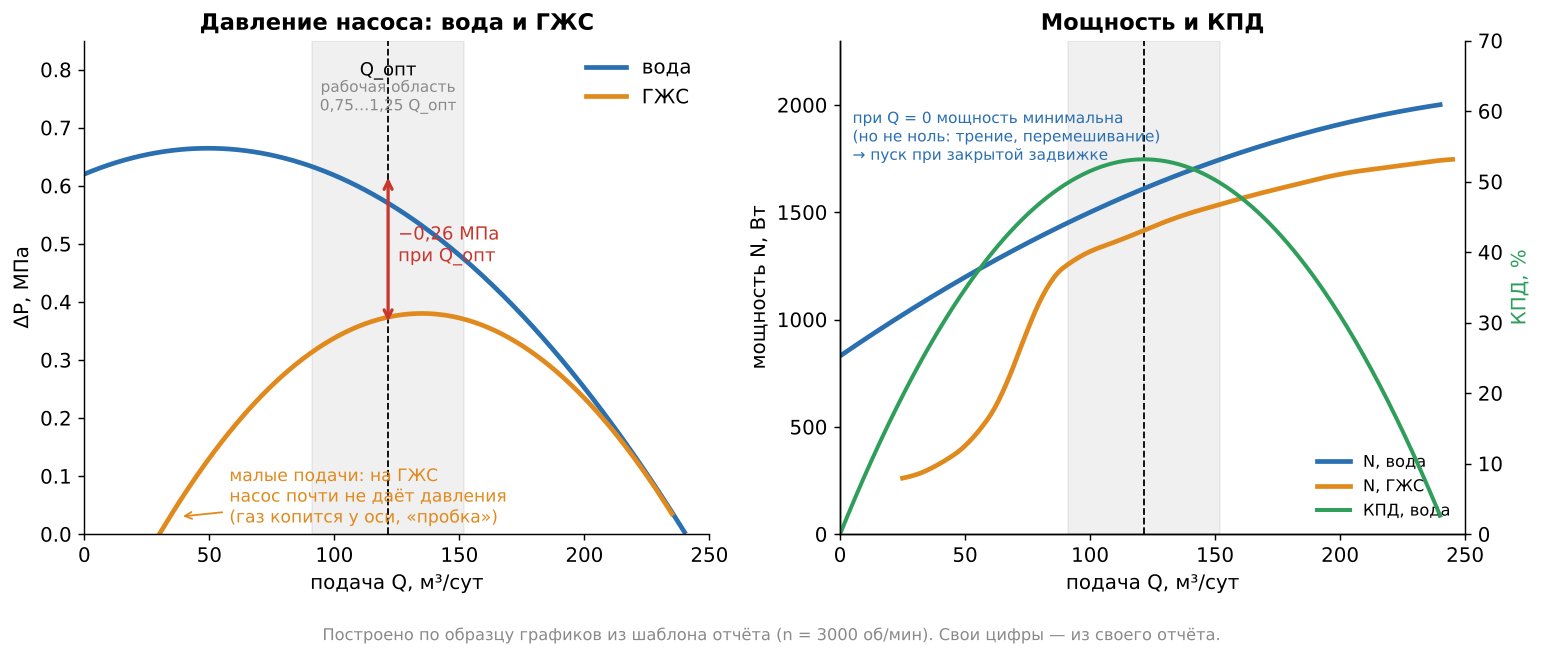
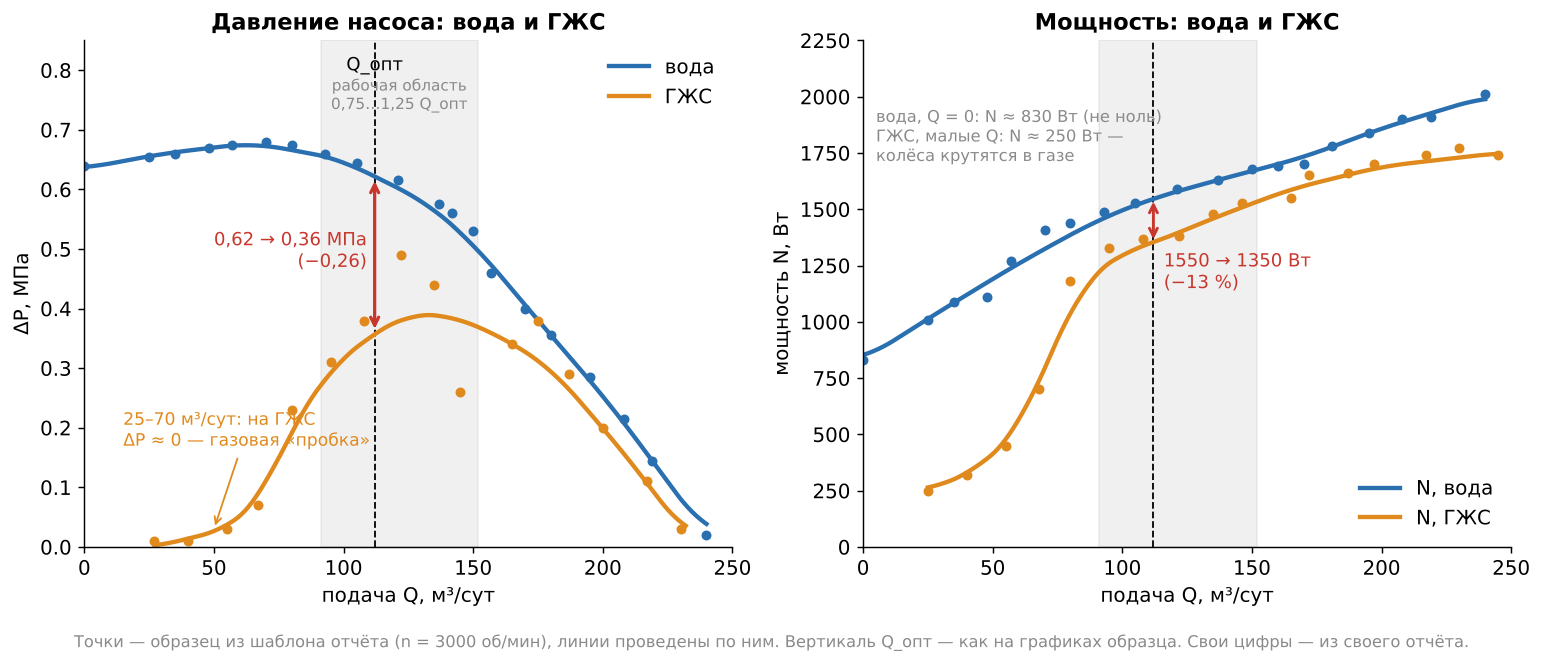
ЛР2: дополнение к подготовке к защите (стенд, обработка, графики, устройство ЭЛН, уточняющие вопросы по кавитации)
Вопросы собраны тремя агентами-«экзаменаторами» по лекциям и методичкам, проверены отдельным рецензентом.

Claude-Session: https://claude.ai/code/session_012JeHmcucBuxbL5MpypKkah

diff --git a/конспекты/ЛР2/ЛР2-Подготовка_дополнение.md b/конспекты/ЛР2/ЛР2-Подготовка_дополнение.md
@@ -1,8 +1,8 @@
 # ЛР2 «Перекачка насосом ГЖС» — дополнение к подготовке
 
-**Как читать.** Это вторая часть. Сначала основной файл (кавитация, запас, борьба, газ — 6 страниц), потом этот. Здесь — то, о чём преподаватель спрашивает **после** основного ответа: стенд, обработка, графики, устройство насоса и «почему» по кавитации. Повторов основного файла нет.
+**Как читать.** Это вторая часть. Сначала — основной файл (разделы ①–③ и «Связь с лабой»), потом этот. Здесь — то, о чём преподаватель спрашивает **после** основного ответа: стенд, обработка, графики, устройство насоса и «почему» по кавитации.
 **★** — спросят почти наверняка. *(общ.)* — в лекциях и методичках этого нет, ответ из общих знаний.
-Числа в примерах — из образца шаблона отчёта (Q_опт = 121,5 м³/сут, ΔP = 0,62 МПа, N = 1550 Вт, n = 3000 об/мин). **Свои цифры берите из своего отчёта.**
+Числа в примерах — из образца шаблона отчёта (n = 3000 об/мин). **Свои цифры берите из своего отчёта.**
 
 ---
 
@@ -11,9 +11,8 @@
 **★ Зачем каждый элемент на схеме?**
 
 - **Бак** замыкает контур; газ из смеси в нём всплывает и уходит *(общ.)*.
-- **Подпорный насос** создаёт и держит постоянное давление на входе.
 - **Расходомер** — подача воды.
-- **Манометры на входе и выходе** — для перепада ΔP.
+- **Манометры на входе и выходе** — перепад ΔP.
 - **Задвижка на выходе** задаёт режим по подаче.
 - **Станция управления** — пуск, частота вращения, потребляемая мощность.
 - **Газовая линия:** компрессор → ресивер (гасит пульсации) → дроссель (задаёт расход газа) → газовый счётчик → обратный клапан (не пускает воду к компрессору) → всас насоса.
@@ -22,17 +21,17 @@
 
 **★ Порядок работы.**
 
-- **Вода.** Залить насос, удалить воздух из импульсных шлангов, пустить при **закрытой** задвижке. Открывать задвижку ступенями от Q = 0 до полного открытия. В каждой точке, после того как режим установится, записать Q, P_вх, P_вых, N, n.
+- **Вода.** Залить насос, удалить воздух из импульсных шлангов, пустить при **закрытой** задвижке. Открывать задвижку ступенями от Q = 0 до полного открытия. В каждой точке, когда режим установился, записать Q, P_вх, P_вых, N, n.
 - **ГЖС.** Задвижкой выставить подачу (шаг 0,1·Q_опт), дросселем подать газ. Частотой подпорного насоса вернуть P_вх к заданному значению, записать показания. Всё повторить для второго давления на входе.
 - **Остановка:** сначала закрыть задвижку, потом выключить двигатель.
 
-**★ Почему P_вх приходится всё время подправлять?** Когда открываем задвижку, растёт подача, растут потери во всасывающей линии, и давление на входе падает. Газ тоже меняет сопротивление подвода. А постоянное P_вх нужно, чтобы газ во всех точках был сжат одинаково и точки можно было сравнивать.
+**★ Как держали давление на входе постоянным на ГЖС и почему оно «уходит»?** Когда открываем задвижку, растёт подача, растут потери во всасывающей линии, и давление на входе падает. Газ тоже меняет сопротивление подвода. Поэтому после каждого шага давление на входе возвращают частотой подпорного насоса. Постоянным его держат, чтобы газ во всех точках был сжат одинаково и точки можно было сравнивать.
 
-**Почему нельзя долго работать на закрытой задвижке (в методичке — не дольше 5 мин)?** Насос ничего не подаёт, а мощность (в образце около 830 Вт) вся уходит в тепло в малом объёме воды. Вода греется, страдают опоры и уплотнения, растёт давление пара — недалеко до кавитации.
+**Почему нельзя долго работать на закрытой задвижке (в методичке — не дольше 5 мин)?** Насос ничего не подаёт, а вся мощность (в образце около 830 Вт) уходит в тепло в малом объёме воды. Греются опоры и уплотнения, при долгой работе вода может закипеть.
 
-**Обороты не ровно 3000 — что делать?** У асинхронного двигателя есть скольжение: реально около 2900 об/мин, и под нагрузкой они немного падают. Точно — привести все точки к одной частоте по законам подобия (Q ~ n, ΔP ~ n², N ~ n³). Методичка этого требует.
+**Обороты не ровно 3000 — что делать?** У асинхронного двигателя есть скольжение: реально около 2900 об/мин, и под нагрузкой они немного падают. Для точности все точки приводят к одной частоте по законам подобия (Q ~ n, ΔP ~ n², N ~ n³). Методичка требует приводить к расчётной частоте, если испытывали на пониженной.
 
-**Какую смесь использовали и что она моделирует?** «Вода – воздух» — модель сильно обводнённой нефти (внешняя фаза — пластовая вода). Смесь «вода – ПАВ – газ» моделирует пенистую маловязкую нефть. В пене газ держится мелкими пузырями и вредит меньше.
+**Что моделирует смесь?** «Вода – газ» — модель сильно обводнённой нефти (внешняя фаза — пластовая вода). «Вода – ПАВ – газ» — модель пенистой маловязкой нефти. В пене газ держится мелкими пузырями и вредит меньше.
 
 **Техника безопасности** (если спросят). Перед работой проверить аварийную кнопку, заземление, крепление ступеней и рамы, утечки, свободное вращение вала, положение задвижек. Нельзя работать при утечках, оставлять стенд без оператора, налаживать при включённом двигателе.
 
@@ -46,9 +45,9 @@
 
 **Почему полезная мощность — это ΔP·Q, а не ρgQH?** Это одно и то же: давление p = ρgH. Удобнее брать ΔP, потому что его меряем напрямую.
 
-**★ Зачем в ΔP слагаемое ρgz?** Насос вертикальный, датчики стоят на разной высоте. Чтобы получить полную энергию, которую дал насос, добавляем гидростатику между ними. Порядок величины: при z = 1 м ρgz ≈ 0,01 МПа, то есть 1–2 % от ΔP. В формулу его подставлять в МПа.
+**★ Зачем в ΔP слагаемое ρgz?** Насос вертикальный, датчики стоят на разной высоте. Чтобы получить полную энергию, которую дал насос, добавляем гидростатику между ними. При z = 1 м ρgz ≈ 9800 Па ≈ 0,01 МПа, то есть 1–2 % от ΔP. Получается в Па — разделить на 10⁶, чтобы сложить с давлениями в МПа.
 
-**Что на самом деле стоит в знаменателе КПД?** N_потр − N_хх. N_хх снимали на сборке **без колёс**, это потери в подшипниках и сальниках. Потери самого двигателя остались внутри, поэтому наш КПД ближе к КПД агрегата и немного занижен *(общ.)*.
+**Какой КПД мы считаем — насоса или агрегата?** В знаменателе N_потр − N_хх. Если N — электрическая мощность со станции, в ней остаются потери двигателя, растущие с нагрузкой, и КПД получается чуть ниже, чем у самих ступеней *(общ.)*.
 
 **★ Пересчёт газа — на числах.** Счётчик показал 1 м³/ч = 24 м³/сут. Давление на входе 0,1 МПа избыточное → 0,2 МПа абсолютное.
 
@@ -56,15 +55,15 @@
 - При Q_в = 120 м³/сут объём смеси = 132 м³/сут.
 - β по шаблону = 12/120 = **10 %**; по методичке = 12/132 = **9,1 %**.
 
-Ловушка: если подставить избыточное давление вместо абсолютного, газ получится вдвое больше.
+Ловушка: если подставить избыточное давление вместо абсолютного, газ завысится — при 0,1 МПа изб вдвое.
 
 **★ Почему β в шаблоне и в методичке разные?** В шаблоне — отношение газа к жидкости, в методичке — доля газа во всей смеси. При малом газе это почти одно и то же, при большом — нет: предел ТУ «25 % по методичке» — это **33 %** по формуле шаблона. В отчёте указать, какое β считали.
 
 **Кривая ГЖС снята при постоянном расходе газа?** Нет: с каждым шагом прибавляли и воду, и газ, чтобы держать β примерно постоянным. Поэтому в отчёте — **среднее** β.
 
-**★ Как нашли Q_опт? Почему у параболы КПД нет свободного члена?** Аппроксимировали КПД параболой y = −0,0036Q² + 0,8749Q, приравняли производную к нулю: Q_опт = 0,8749 / 0,0072 = 121,5 м³/сут. Свободного члена нет, потому что при Q = 0 полезной мощности нет и КПД равен нулю. Второй ноль параболы — 243 м³/сут, там же, где ΔP → 0. Значит, модель осмысленная.
+**★ Как нашли Q_опт? Почему у параболы КПД нет свободного члена?** Аппроксимировали КПД параболой y = −0,0036Q² + 0,8749Q и приравняли производную к нулю: Q_опт = 0,8749 / 0,0072 = 121,5 м³/сут. Свободного члена нет, потому что при Q = 0 полезной мощности нет и КПД равен нулю. Второй ноль параболы — 243 м³/сут, там же, где ΔP → 0. Модель осмысленная.
 
-**★ Почему рабочая область именно 0,75…1,25 Q_опт?** Это зона, где КПД не более чем на ~7 % ниже максимума (по лекциям — так задают поле рабочих параметров). Для параболы на краях зоны КПД ≈ 94 % от максимума. Левее растут осевая сила, циркуляция, удар на входе, правее — скорости и потери. Вне зоны насос изнашивается быстрее.
+**★ Почему рабочая область 0,75…1,25 Q_опт?** Границы взяты из шаблона, а по смыслу это поле рабочих параметров: по лекциям в нём КПД не более чем на 7 % ниже максимума. Для нашей параболы на краях зоны КПД ≈ 94 % от максимума — укладывается. Левее растут осевая сила, циркуляция, удар потока на входе, правее — скорости и потери. Вне зоны насос изнашивается быстрее.
 
 ---
 
@@ -74,21 +73,23 @@
 
 **★ Почему ΔP падает с ростом подачи?** По уравнению Эйлера у лопастей, загнутых назад, теоретический напор линейно уменьшается с подачей. Из этой прямой ещё вычитаются потери: трение растёт примерно как Q², удар на входе растёт при уходе от расчётной подачи. Поэтому реальная кривая идёт ниже и падает всё круче.
 
-**Почему у воды при Q = 0 давление (0,62) меньше максимума (0,68)?** Это характеристика «с горбом», типична для колёс с большим углом лопасти на выходе. Левее максимума одному давлению соответствуют две подачи, и работа может быть неустойчивой. Но эта ветка лежит вне рабочей зоны.
+**Почему у воды при Q = 0 давление (0,64) меньше максимума (0,68)?** Это характеристика «с горбом», типична для колёс с большим углом лопасти на выходе. Левее максимума одному давлению соответствуют две подачи, и работа может быть неустойчивой. Но эта ветка лежит вне рабочей зоны.
 
-**★ Почему при Q = 0 мощность не ноль (≈ 830 Вт), а дальше растёт?** При закрытой задвижке энергия уходит на трение дисков колёс о воду, на вихри и утечки в зазорах, а у ЭЛН ещё на трение колёс об опорные шайбы (осевая сила при Q = 0 наибольшая). С ростом подачи добавляется полезная мощность. Поэтому мощность минимальна при Q = 0, и центробежный насос пускают на закрытую задвижку. У осевых насосов наоборот: максимум мощности при Q = 0, их пускают при открытой.
+**★ Почему при Q = 0 мощность не ноль (≈ 830 Вт), а дальше растёт?** При закрытой задвижке энергия уходит на трение дисков колёс о воду, на вихри и утечки в зазорах, у ЭЛН — ещё и на трение колёс об опорные шайбы. С ростом подачи добавляется полезная мощность. Значит, мощность минимальна при Q = 0, и центробежный насос пускают на закрытую задвижку. У осевых насосов наоборот: мощность максимальна при Q = 0, их пускают при открытой.
 
 **★ Разберите график вода/ГЖС по зонам** (образец).
 
 - **25–70 м³/сут:** ΔP ≈ 0 — срыв: газ скопился у оси колёс в «пробку», колёса крутятся в газе.
-- **80–140:** ΔP сильно ниже воды (при Q_опт 0,36 против 0,62, −42 %) — газовая кавитация.
+- **80–150:** ΔP сильно ниже воды (при Q_опт 0,36 против 0,62, −42 %) — газовая кавитация.
 - **От 170:** кривые почти сходятся — мелкие пузыри уносятся потоком (эмульсия), разница почти только из-за меньшей плотности.
 
 **★ Почему на малых подачах газ вредит сильнее, а на больших — меньше?** На малых скорость жидкости мала: центробежная сила успевает отделить лёгкий газ от тяжёлой воды и согнать его к оси, ко входу колеса. Там пузыри сливаются в каверну. На больших подачах поток быстрый, пузыри дробятся и выносятся раньше, чем успевают собраться *(механизм на больших Q — общ.)*.
 
-**Почему максимум кривой ГЖС сдвинут вправо (≈130 против 60–70 у воды)?** Две причины. Первая — на малых подачах газ вредит сильнее всего. Вторая — через ступень на самом деле идёт не только вода, но вода + газ, то есть по объёму насос работает правее, чем показывает ось подачи жидкости.
+**Почему у ГЖС максимум давления при ≈130, а у воды при 60–70?** Правая часть не поднялась — обрушилась левая. На малых подачах газ собирается в пробку, давление там почти нулевое, и максимум остался там, где газ уже выносится потоком.
 
-**★ Почему давление упало на 42 %, а мощность только на 13 %?** Если бы дело было только в плотности, оба упали бы одинаково (и давление, и мощность ~ плотности). Давление упало гораздо сильнее, значит, каверны ломают передачу энергии, и часть мощности уходит в потери. Поэтому КПД на ГЖС падает: по жидкости при Q_опт 0,36·10⁶ · 0,00141 / 1350 ≈ **37 %** против 56 % на воде.
+**Почему на ГЖС при малых подачах мощность (≈250 Вт) даже меньше, чем на воде при закрытой задвижке (830 Вт)?** Колёса крутятся в газовой пробке. Газ почти ничего не весит, трение и перемешивание в нём почти ничего не стоят, жидкость через насос почти не идёт.
+
+**★ Почему давление упало на 42 %, а мощность только на 13 %?** Если бы дело было только в плотности, оба упали бы одинаково (и давление, и мощность пропорциональны плотности). Давление упало гораздо сильнее — значит, каверны ломают передачу энергии, и часть мощности уходит в потери. Поэтому КПД на ГЖС падает: по жидкости при Q_опт 0,36·10⁶ · 0,00141 / 1350 ≈ **37 %** против 56 % на воде.
 
 **Почему точки ГЖС с большим разбросом?** Двухфазный поток нестационарен: пузыри сливаются и рвутся, давление и мощность пульсируют, компрессор подаёт газ неравномерно. Поэтому замер делают только после установления режима.
 
@@ -97,13 +98,15 @@
 - P_вх = 0,1 МПа изб → 12 м³/сут на входе, β = 10 %;
 - P_вх = 0,3 МПа изб → 24·0,1/0,4 = **6 м³/сут**, β = 5 %.
 
-Газ сжат вдвое сильнее, его объёмная доля вдвое меньше. Кривая ГЖС ближе к воде, срыв наступает позже. В скважине тот же эффект даёт более глубокое погружение насоса.
+Газ сжат вдвое сильнее, его объёмная доля вдвое меньше. Кривая ГЖС ближе к воде, срыв сдвигается к меньшим подачам и большему газосодержанию.
+
+**★ В каких режимах работа на ГЖС допустима?** Бескавитационный режим при малом газосодержании — допустим. Режим газовой кавитации — нет: падают давление и подача, а в скважине — добыча, растут преждевременные отказы установки.
 
 ![](../../рисунки/ЛР2-Подготовка/д05_давление_по_ступеням.jpg)
 
-**★ Как меняется давление по ступеням на ГЖС?** При малом газе давление растёт почти линейно с первой ступени. При большом газе первые 20–40 ступеней дают плато, а иногда давление в них даже **падает ниже входного**. Затем газ сжимается и частично растворяется, его доля падает, и ступени «оживают». Чем больше газа, тем больше «мёртвых» ступеней на входе.
+**★ Как меняется давление по ступеням на ГЖС?** Рисунок: 76 ступеней, давление на входе 0,6 МПа. При β ≈ 26 % (красная) давление растёт почти линейно с первой ступени. При β ≈ 37 % (синяя) первые ~20 ступеней дают плато, а местами давление в них даже **ниже входного**. Дальше газ сжимается и частично растворяется, его доля падает, и ступени начинают работать. Чем больше газа, тем больше «мёртвых» ступеней на входе. *(Оранжевая кривая отличается и подачей, поэтому чистое сравнение — красная и синяя.)*
 
-**Как давление может падать в ступенях насоса?** Ступени в газовой кавитации энергии почти не передают, а гидравлические потери в них остаются. Они работают как сопротивление, и поток через них проталкивает давление на входе (подпор).
+**Как давление может падать в ступенях насоса?** Ступени в газовой кавитации энергии почти не передают, а гидравлические потери в них остаются. Поток проталкивается через них за счёт давления на входе (подпора), и часть этого давления теряется.
 
 **Почему наша короткая секция чувствует газ сильнее, чем насос в скважине?** Она по сути моделирует только **нижние** ступени настоящего насоса — самую тяжёлую зону. В длинном насосе верхние ступени работают на сжатом газе, и в среднем влияние мягче *(общ.)*.
 
@@ -114,28 +117,25 @@
 ![](../../рисунки/ЛР2-Подготовка/д01_ступень_ЭЛН.jpg)
 *Ступень ЭЛН: 1 — направляющий аппарат, 3 — рабочее колесо, 5 и 7 — нижняя и верхняя опорные шайбы, 8 — вал.*
 
-**★ Как работает ступень? Зачем направляющий аппарат?** Колесо закручивает жидкость, центробежные силы гонят её к периферии, на выходе растут давление и скорость. У направляющего аппарата две задачи:
-
-1. как диффузор перевести скорость в давление;
-2. снять закрутку и подвести поток к следующему колесу.
+**★ Как работает ступень? Зачем направляющий аппарат?** Колесо закручивает жидкость, центробежные силы гонят её к периферии, на выходе растут давление и скорость. Направляющий аппарат:
+1. как диффузор переводит скорость в давление;
+2. снимает закрутку и подводит поток к следующему колесу.
 
 Без него следующее колесо получило бы закрученный поток и дало бы меньший напор.
 
-**★ Что такое плавающее колесо и куда девается осевая сила?** Осевая сила возникает из-за разницы давлений: сзади на колесо давит давление выхода, спереди — меньшее давление входа. Плавающее колесо закреплено на валу только шпонкой от проворота, вдоль вала оно свободно. Каждое колесо передаёт свою силу через опорную шайбу на свой направляющий аппарат, то есть на корпус. Силы сотен ступеней не складываются на валу. Минус — трение в шайбах снижает КПД, шайбы изнашиваются.
+**★ Что такое плавающее колесо и куда девается осевая сила?** Осевая сила возникает из-за разницы давлений: сзади на колесо давит давление выхода, спереди — меньшее давление входа. Плавающее колесо закреплено на валу только шпонкой от проворота, вдоль вала оно свободно. Каждое колесо опирается через шайбу на бурт направляющего аппарата предыдущей ступени, то есть отдаёт силу на корпус. Силы сотен ступеней не складываются на валу. Минус — трение в шайбах снижает КПД, шайбы изнашиваются.
 
-**При какой подаче осевая сила наибольшая?** При Q = 0: давление выхода максимальное. С ростом подачи сила падает, на больших подачах может сменить знак (колесо поджимается к верхней шайбе) *(смена знака — общ.)*. Слева от рабочей зоны колёса сильно трутся о нижние шайбы — ещё одна причина держать насос в рабочей зоне.
+**При какой подаче осевая сила наибольшая?** На холостом ходу, при Q = 0: давление за колесом высокое, а встречная сила от входящего потока почти нулевая. С ростом подачи сила уменьшается, на больших подачах может сменить знак — колесо поджимается к верхней шайбе *(смена знака — общ.)*. Слева от рабочей зоны колёса сильно трутся о нижние шайбы — ещё одна причина держать насос в рабочей зоне.
 
 **Почему в ЭЛН нет разгрузочного диска или встречных колёс, как в обычных многоступенчатых насосах?** Для встречной схемы нужны переводные каналы, а они не помещаются в корпус диаметром 70–120 мм. Одна гидропята на сотни ступеней принимала бы огромную суммарную силу. Плавающие колёса разгружают каждую ступень отдельно.
 
-**★ Почему КПД ЭЛН всего ~50–56 %, а у больших насосов 80–90 %?** Общий КПД — это произведение трёх: гидравлического (трение и вихри в каналах), объёмного (утечки через зазоры с выхода на вход) и механического (подшипники, трение дисков, у ЭЛН ещё и опорные шайбы). У маленькой ступени каналы узкие, относительные зазоры и шероховатость больше. Все три КПД ниже.
+**★ Почему КПД ЭЛН всего ~50–56 %, а у больших насосов 80–90 %?** Общий КПД — произведение трёх: гидравлического (трение и вихри в каналах), объёмного (утечки через зазоры с выхода на вход) и механического (подшипники, трение дисков, у ЭЛН — ещё опорные шайбы). У маленькой ступени каналы узкие, относительные зазоры и шероховатость больше — все три КПД ниже.
 
 **★ Насос качает нефть плотностью 850 — что изменится: напор или давление?** Напор в метрах **тот же**: колесо даёт каждому килограмму одинаковую энергию, она зависит только от скоростей. Давление и мощность уменьшатся пропорционально плотности:
 
-- ΔP: 0,62 → ≈0,53 МПа;
-- N: ≈1550 → ≈1320 Вт;
-- КПД тот же (если не считать вязкость).
-
-Наше давление 0,62 МПа — это напор ≈ 63 м.
+- ΔP: 0,62 → ≈ 0,53 МПа (напор при этом те же ≈ 63 м);
+- N: ≈ 1550 → ≈ 1320 Вт;
+- КПД тот же. Напор снижает **вязкость**, а не плотность.
 
 **★ Снизили частотником обороты с 3000 до 2500 — что будет?** Отношение 0,83.
 
@@ -144,67 +144,55 @@
 - мощность ~ n³: 1550 → ≈ **900** Вт;
 - КПД практически тот же.
 
-**Убрали половину ступеней — что с характеристикой?** Ступени включены последовательно: подача одна, давления складываются. ΔP при каждой подаче уменьшится вдвое, мощность тоже примерно вдвое. Q_опт и КПД не изменятся: подачу задают размеры ступени и частота.
+**Убрали половину ступеней — что с характеристикой?** Ступени включены последовательно: подача одна, давления складываются. ΔP при каждой подаче уменьшится вдвое, мощность тоже примерно вдвое. Q_опт и КПД не изменятся — подачу задают размеры ступени и частота.
 
-**Как поднять напор ступени, если диаметр ограничен скважиной?** Напор растёт как квадрат окружной скорости (диаметр × обороты). Если диаметр нельзя, поднимают обороты (высокооборотные установки) *(общ.)*, остальное добирают числом ступеней.
+**Как поднять напор ступени, если диаметр ограничен скважиной?** Напор растёт как квадрат окружной скорости (диаметр × обороты). Если диаметр нельзя увеличить, поднимают обороты (высокооборотные установки) *(общ.)*, остальное добирают числом ступеней.
 
-**Коэффициент быстроходности для ЭЛН?** Считают для **одной ступени**: подставляют напор ступени, а не всего насоса. Для ЭЛН выходит около 100–150 *(оценка, общ.)* — нормальное центробежное колесо. Отсюда вид наших кривых: давление падает с подачей, мощность растёт, пуск при закрытой задвижке правильный.
+**Коэффициент быстроходности для ЭЛН?** Считают для **одной ступени** — подставляют напор ступени, а не всего насоса. Для ЭЛН выходит около 100–150 *(оценка, общ.)* — нормальное центробежное колесо. Отсюда вид наших кривых: давление падает с подачей, мощность растёт, пуск при закрытой задвижке правильный.
 
-**★ Что такое рабочая точка? Как вы меняли режим?** Рабочая точка — пересечение характеристики насоса с характеристикой сети. Прикрывая задвижку, мы делали сеть «круче», и точка уходила влево. Это дросселирование. Оно простое, но неэкономичное: часть напора сгорает в задвижке, и подачу можно только уменьшить. Частотой можно менять подачу в обе стороны без потерь, поэтому у УЭЦН станции с частотным преобразователем *(общ.)*. В скважине «сеть» — подъём жидкости от динамического уровня до устья плюс потери в трубах *(общ.)*.
+**★ Что такое рабочая точка? Как вы меняли режим?** Рабочая точка — пересечение характеристики насоса с характеристикой сети. Прикрывая задвижку, мы делали сеть «круче», и точка уходила влево. Это дросселирование: просто, но неэкономично — часть напора сгорает в задвижке, и подачу можно только уменьшить. Частотой подачу меняют в обе стороны без потерь на дросселирование — поэтому у УЭЦН станции с частотным преобразователем *(общ.)*. В скважине «сеть» — подъём жидкости от динамического уровня до устья плюс потери в трубах *(общ.)*.
 
-**Что будет на вязкой нефти?** Растут трение в каналах и трение дисков, поэтому подача, напор и КПД падают, а мощность растёт. Пересчитывают по опытным коэффициентам (как в ДЗ-1). Плотность, в отличие от вязкости, на напор не влияет.
+**Что будет на вязкой нефти?** Растут трение в каналах и трение дисков, поэтому подача, напор и КПД падают, а мощность растёт. Пересчитывают по опытным коэффициентам (как в ДЗ-1).
 
 ---
 
 ## 5. Кавитация глубже — уточняющие вопросы
 
-**★ Почему давление минимально у входной кромки, а не на выходе, где скорость больше?** На выходе колесо уже отдало жидкости энергию, давление там высокое. На входе колесо ещё ничего не добавило, а жидкость уже потратила давление на разгон и потери в подводе. Сверху ещё провал при обтекании носика лопасти. Минимум — сразу за входной кромкой, на тыльной (нерабочей) стороне лопасти.
+**★ Почему давление минимально у входной кромки, а не на выходе, где скорость больше?** На выходе колесо уже отдало жидкости энергию, давление там высокое. На входе колесо ещё ничего не добавило, а жидкость уже потратила давление на разгон и потери в подводе. Сверху — ещё провал при обтекании носика лопасти. Минимум — сразу за входной кромкой, там, где местная скорость обтекания наибольшая (в методичке — «на выпуклой части лопатки»).
 
-**★ Кавитация начинается, когда напор упал на 3 %?** **Нет.** Пузыри и короткие каверны появляются раньше, ещё на «полке» графика: пока каверна короткая, напор не меняется. 3 % — удобный для измерения критерий, а не начало кавитации. Поэтому эрозия возможна и на полке, и поэтому берут допускаемый запас больше критического.
+**★ Кавитация начинается, когда напор упал на 3 %?** **Нет.** Пузыри и короткие каверны появляются раньше, ещё на «полке» графика: пока каверна короткая, напор не меняется. 3 % — удобный для измерения условный критерий, а не начало кавитации. Поэтому эрозия возможна и на полке, и поэтому берут допускаемый запас больше критического.
 
-**★ Изменится ли допускаемый запас на горячей воде? А в горах?** Почти нет. Запас — свойство насоса, он определяется скоростями на входе (конструкция, обороты, подача). Меняется **допустимая высота всасывания**: у горячей воды больше давление пара, в горах меньше атмосферное давление. В обоих случаях насос надо ставить ниже, а требование насоса прежнее.
+**★ Изменится ли допускаемый запас на горячей воде? А в горах?** Почти нет. Запас — свойство насоса: он определяется скоростями на входе (конструкция, обороты, подача). Меняется **допустимая высота всасывания**: у горячей воды больше давление пара, в горах меньше атмосферное давление. В обоих случаях насос надо ставить ниже, а требование насоса прежнее.
 
-**★ С какой глубины насос может всасывать холодную воду? Поставим мощнее — возьмёт глубже?** Насос не «тянет» воду, её вдавливает атмосферное давление. Предел — около 10 м водяного столба. Минус давление пара, запас насоса и потери, на практике остаётся около 5–7 м *(общ.)*. Мощность не поможет: она даёт давление на **выходе**, а всасывание ограничено давлением на **входе**.
+**★ С какой глубины насос может всасывать холодную воду? Поставим мощнее — возьмёт глубже?** Насос не «тянет» воду — её вдавливает атмосферное давление. Предел — около 10 м водяного столба. Минус давление пара, запас насоса и потери — на практике остаётся около 5–7 м *(общ.)*. Мощность не поможет: она даёт давление на **выходе**, а всасывание ограничено давлением на **входе**.
 
-**Почему воду ~100 °C из открытого бака насос не всасывает?** При 100 °C давление пара равно атмосферному: нечему «вдавливать» воду в насос. Бак ставят **выше** насоса на запас плюс потери (так стоит насос под деаэратором).
+**Почему воду ~100 °C из открытого бака насос не всасывает?** При 100 °C давление пара равно атмосферному — нечему «вдавливать» воду в насос. Бак ставят **выше** насоса на запас плюс потери (так стоит насос под деаэратором).
 
-**★ Подняли обороты вдвое — что с кавитацией?** Требуемый запас растёт как квадрат оборотов — **вчетверо**. Было нужно 3 м, станет 12 м. Насос почти наверняка закавитирует. Обороты насоса ограничивает именно кавитация.
+**★ Подняли обороты вдвое — что с кавитацией?** Требуемый запас растёт как квадрат оборотов — **вчетверо**. Было нужно 3 м, станет 12 м. Насос почти наверняка закавитирует. Обороты насоса ограничивает в первую очередь кавитация.
 
-**★ Почему при снятии кавитационной характеристики давление снижают вакуум-насосом в баке, а не прикрывают задвижку на всасе?** Вакуум-насос меняет только давление, а скорости и углы потока на входе в колесо остаются прежними. Мы меряем ровно то, что нужно. Задвижка на всасе испортила бы поток на входе и могла бы кавитировать сама. Подачу держат постоянной (задвижкой на выходе), потому что требуемый запас сильно зависит от подачи.
+**★ Почему при снятии кавитационной характеристики давление снижают вакуум-насосом в баке, а не прикрывают задвижку на всасе?** Вакуум-насос меняет только давление, а скорости и углы потока на входе в колесо остаются прежними — меряем ровно то, что нужно. Задвижка на всасе испортила бы поток на входе и могла бы кавитировать сама. Подачу держат постоянной задвижкой на выходе, потому что требуемый запас сильно зависит от подачи.
 
 **★ Почему с ростом подачи нужен больший запас?** Больше подача — больше скорости перед лопастью, глубже провал давления. По графику из лекций: при подаче 45, 70 и 90 л/с срыв наступает при запасе ≈ 2,5, 3,5 и 5 м. Поэтому кавитационные характеристики снимают на минимальной, номинальной и максимальной подачах.
 
-**Почему шнек сам не кавитирует?** Его длинные тонкие винтовые лопасти с малыми углами почти не разгоняют поток. Провал давления мал, кавитационные качества очень высокие (C до 5000 против 800–1000 у обычного колеса). А главное, он создаёт подпор для центробежного колеса.
+**Почему шнеку кавитация не так страшна?** У него длинные винтовые лопасти с малыми углами. Каверна на входе занимает лишь часть длинного канала, и шнек продолжает повышать давление. Его делают из кавитационно-стойких материалов. А главное — он создаёт подпор для центробежного колеса.
 
-**Сделаем вход колеса огромным — кавитации не будет?** До предела. Шире вход — меньше скорость входа, но на большом диаметре растёт окружная скорость, и относительная скорость у кромки снова растёт. Плюс падает КПД. Выгоднее расширять колесо по ширине на входе и делать тоньше кромки.
+**Сделаем вход колеса огромным — кавитации не будет?** До предела. Шире вход — меньше скорость входа, но на большом диаметре растёт окружная скорость, и относительная скорость у кромки снова растёт. Плюс падает КПД. Выгоднее расширять колесо по ширине на входе.
 
-**Почему в многоступенчатом насосе срыв считают по напору первой ступени?** Кавитирует только первое колесо. У ЭЛН сотни ступеней по 3–7 м: 2–3 % от напора всего насоса больше напора одной ступени. Такое падение заметили бы, только когда первая ступень почти полностью сорвалась.
+**Почему в многоступенчатом насосе срыв считают по напору первой ступени?** Сильнее всего кавитирует первое колесо — на входе в него давление наименьшее. У ЭЛН сотни ступеней по 3–7 м: 2–3 % от напора всего насоса больше напора одной ступени. Такое падение заметили бы, только когда первая ступень почти полностью сорвалась. Поэтому критерий — 2 % напора первой ступени.
 
-**Почему коэффициент запаса A не один для всех (1,1…1,4)?** Чем меньше сам критический запас в метрах, тем больший коэффициент: малый запас «съедается» даже малой ошибкой или колебанием режима. Для агрессивных жидкостей и морской воды A выше (эрозия сильнее).
+**Почему коэффициент запаса A не один для всех (1,1…1,4)?** Чем меньше сам критический запас в метрах, тем больший коэффициент: малый запас «съедается» даже малой ошибкой или колебанием режима. Для агрессивных жидкостей и морской воды A выше — эрозия сильнее.
 
 **Как оператор поймёт, что насос близок к кавитации, не разбирая его?** По вакуумметру на входе: если вакуум больше допустимого, запаса не хватает. Плюс треск, вибрация, скачущие давление и подача.
 
-**★ Почему в ЭЛН паровая кавитация — редкость, а газ — главная проблема?** Давление на приёме создаёт столб жидкости над насосом — обычно десятки атмосфер, намного выше давления пара. Но часто ниже **давления насыщения нефти газом**: растворённый газ выделяется, и начинается газовая кавитация *(связь с давлением насыщения — общ.)*. Лекарство то же — больше давления на входе, то есть глубже погрузить насос.
+**★ Почему в ЭЛН паровая кавитация — редкость, а газ — главная проблема?** Давление на приёме создаёт столб жидкости над насосом — обычно десятки атмосфер, намного выше давления пара. Но часто ниже **давления насыщения нефти газом**: растворённый газ выделяется, и начинается газовая кавитация *(связь с давлением насыщения — общ.)*.
+
+**Ловушка «Кипит во входном патрубке».** Нет: во входном патрубке давление ещё выше давления пара на величину запаса. Кипит дальше — у входной кромки лопасти. Запас меряют на входе, а кавитирует внутри.
 
 ---
 
-## 6. Ловушки: правдоподобно, но неверно
-
-| Звучит правильно | На самом деле |
-|---|---|
-| «Кавитация — это подсос воздуха в насос» | Кавитация — вскипание самой жидкости (пар). Воздух даёт газовую кавитацию: она похожа по действию, но без схлопывания и без эрозии |
-| «Кипит во входном патрубке» | Во входном патрубке давление ещё выше давления пара на величину запаса. Кипит дальше — у входной кромки лопасти |
-| «Напор не упал — значит, кавитации нет, можно работать на критическом запасе» | Кавитация и эрозия начинаются раньше падения напора. Работать можно только с допускаемым запасом |
-| «На горячей воде растёт допускаемый запас насоса» | Запас — свойство насоса. Меняется допустимая высота всасывания |
-| «Насос мощнее — всасывает глубже» | Всасывание ограничено атмосферным давлением, а не мощностью |
-| «Снизим подачу задвижкой на всасе» | Задвижка на всасе снижает давление на входе — путь к кавитации. Регулируют только на выходе |
-| «На нефти напор будет меньше, она легче» | Напор тот же, меньше давление и мощность. Напор уменьшает **вязкость**, а не плотность |
-
----
-
-## 7. Если спросят по отчёту — неточности шаблона
+## 6. Если спросят по отчёту — неточности шаблона
 
 - **КПД:** формула без единиц. Подставлять ΔP в Па, Q в м³/с.
-- **Газ:** давление брать **абсолютное** (избыточное + 0,1 МПа). Расход счётчика из м³/ч умножать на 24. В объём смеси и β подставлять газ, уже пересчитанный к давлению входа.
-- **Образец сам себе противоречит:** парабола даёт максимум КПД 53 %, в тексте — 56 %. Вертикаль Q_опт на графиках стоит около 112, а не 121,5. В своём отчёте все «оптимальные» значения брать при **своём** Q_опт.
+- **Газ:** в п. 5–6 шаблона стоит V_г, а подставлять надо уже пересчитанный к давлению входа V_г^вс (м³/сут — расход счётчика в м³/ч × 24).
+- **Образец сам себе противоречит:** парабола даёт максимум КПД 53 %, а в тексте 56 %; на стр. 6 N_опт = 1580 Вт и ΔP = 0,6 МПа, на графиках стр. 8–9 — 1550 Вт и 0,62 МПа; вертикаль Q_опт на графиках стоит около 112, а не 121,5. В своём отчёте все «оптимальные» значения брать при **своём** Q_опт.
 - **На комплексной характеристике шаблона** КПД нанесён на ось мощности (0–2500) и не читается — лучше отдельная ось.

diff --git a/КАРТА.md b/КАРТА.md
@@ -4,7 +4,7 @@
 запускает его после каждой загрузки; остальные разделы ведёт Claude при разборе новых файлов (регламент — `CLAUDE.md`).
 
 <!-- AUTO:STATS:START -->
-Автообновление: 2026-10-14 · исходников: 20 · конспектов: 61 · рисунков: 482 · в очереди upload/: 0
+Автообновление: 2026-10-14 · исходников: 20 · конспектов: 62 · рисунков: 485 · в очереди upload/: 0
 <!-- AUTO:STATS:END -->
 
 ---
@@ -17,7 +17,7 @@
 | формулу | `ФОРМУЛЫ.md` (по разделам курса, с номером и страницей) |
 | ⭐ **ДЗ-1 «Пересчёт характеристики ЦН» (мой вариант 7)** | **`конспекты/ДЗ1/ДЗ1-Р_Вариант7_расчет.md` + `03_ДЗ/ДЗ-1/работа/ДЗ1-Р_вар7_расчет.xlsx`** — готовый расчёт; `ДЗ1-З_…md` — задание, **алгоритм**, неясности, таблица Ляпкова; `ДЗ1-И` — данные по вариантам; `ДЗ1-П` — каталог графиков насосов; `ДЗ1-А` — пример (вар. 11) с разбором ошибок |
 | лабораторную 1 (характеристика ЦН на стенде) | `конспекты/ЛР1/` — методичка, шаблон отчёта и алгоритм расчёта |
-| ⭐ **защиту ЛР2 «Перекачка насосом ГЖС» (кавитация)** | **`конспекты/ЛР2/ЛР2-Подготовка_к_защите.md`** — ответы на вопросы преподавателя, иллюстрации, вероятные вопросы; `ЛР2-М` — методичка ЭЛН на ГЖС; `ЛР2-К` — кавитационная характеристика; `ЛР2-Ш` — шаблон отчёта |
+| ⭐ **защиту ЛР2 «Перекачка насосом ГЖС» (кавитация)** | **`конспекты/ЛР2/ЛР2-Подготовка_к_защите.md`** (основное, 6 стр.) + **`ЛР2-Подготовка_дополнение.md`** (стенд, обработка, графики, устройство ЭЛН, уточняющие вопросы по кавитации, 9 стр.) — ответы на вопросы преподавателя, иллюстрации, вероятные вопросы; `ЛР2-М` — методичка ЭЛН на ГЖС; `ЛР2-К` — кавитационная характеристика; `ЛР2-Ш` — шаблон отчёта |
 | картинку схемы/графика | §5 «Каталог рисунков» → `рисунки/<код>/стрNNN.jpg`; в конспекте у рисунка есть 🖼-описание |
 | страницу, которой нет в `рисунки/` | `pdftoppm -r 110 -jpeg -f N -l N -singlefile <pdf> /tmp/out` |
 | загрузить новое | положить в `upload/`, попросить «разбери upload» |
@@ -1049,6 +1049,7 @@ _Пусто — всё разобрано._
 | Тема / термин | Где |
 |---|---|
 | ⭐ ответы на вопросы преподавателя (кавитация, Δh_доп, борьба) + вопросы по работе | ЛР2-Подготовка |
+| ⭐ уточняющие вопросы: стенд и порядок, обработка (КПД, газ, β, Q_опт), графики вода/ГЖС, ступень ЭЛН и осевая сила, подобие, «почему» по кавитации, неточности шаблона | ЛР2-Подготовка_дополнение |
 | доля нефти, добываемой ЭЛН (> 80 %); паспорт — на воде | ЛР2-М стр.4 |
 | ступень ЭЛН (колесо + НА), напор 3–7 м, ЦЛ/НЦЛ, до 550 ступеней | ЛР2-М стр.4–6 (рис. 1) |
 | допустимое содержание свободного газа на приёме — 25 % | ЛР2-М стр.5 |

diff --git a/CLAUDE.md b/CLAUDE.md
@@ -31,7 +31,7 @@
 | **ЛР2-М** | Методичка ЛР2 «Исследование работы скважинных лопастных насосов при перекачке ГЖС» (Ивановский, Долов, Шайхулов, 2021) | `02_Лабы/ЛР2/ЛР2-М_…pdf` (35 стр.) | `конспекты/ЛР2/ЛР2-М_…md` |
 | **ЛР2-Ш** | Шаблон отчёта «ЛР №2. Перекачка насосом ГЖС» (Долов, 2024) | `02_Лабы/ЛР2/ЛР2-Ш_…pdf` | `конспекты/ЛР2/ЛР2-Ш_…md` |
 | **ЛР2-К** | Методичка «Кавитационная характеристика ЦН» (ЛР 4 сборника ЛР1-М; на портале — «ЛР2 Кавитация») | `02_Лабы/ЛР2/ЛР2-К_…pdf` | `конспекты/ЛР2/ЛР2-К_…md` |
-| **ЛР2-Подготовка** | Подготовка к устной защите ЛР2 (кавитация, Δh_доп, борьба, ГЖС, вопросы по работе) — сделано Claude | — | `конспекты/ЛР2/ЛР2-Подготовка_к_защите.md` |
+| **ЛР2-Подготовка** | Подготовка к устной защите ЛР2 (кавитация, Δh_доп, борьба, ГЖС, вопросы по работе) + дополнение (стенд, обработка, графики, устройство ЭЛН, уточняющие вопросы) — сделано Claude | — | `конспекты/ЛР2/ЛР2-Подготовка_к_защите.md`, `…_дополнение.md` |
 | **ДЗ1-З / ДЗ1-И / ДЗ1-П** | ДЗ-1 «Пересчёт характеристики ЦН»: задание+методика / исходные данные по вариантам / приложение (графики насосов) | `03_ДЗ/ДЗ-1/` | `конспекты/ДЗ1/` |
 | **ДЗ1-А** | Аналог: работа Кузиной П.А., вар. 11 (не проверено, ошибки разобраны) | `03_ДЗ/ДЗ-1/аналоги/` | `конспекты/ДЗ1/ДЗ1-А_…md` |
 | **Башта** | Учебник: Башта Т.М. и др. «Гидравлика, гидромашины и гидроприводы», 2010 (справочно) | `04_Литература/Башта_…pdf` (425 стр.) | `конспекты/Башта/` (по главам, сжато) |

diff --git a/конспекты/ЛР2/ЛР2-Подготовка_к_защите.md b/конспекты/ЛР2/ЛР2-Подготовка_к_защите.md
@@ -27,7 +27,7 @@
 
 ## ② Допускаемый кавитационный запас и как его найти
 - **Кавитационный запас Δh** — насколько энергия жидкости на входе в насос больше давления её насыщенного пара (в метрах). Это «подушка», которую насос сам тратит на провал давления у кромки.
-- **Критический Δh_кр** — запас, при котором начинается кавитация. По ГОСТ — когда **напор падает на 3 %** (в лекциях, по старому ГОСТ, — на 2 %).
+- **Критический Δh_кр** — запас, при котором кавитация уже заметно мешает работе: по ГОСТ — когда **напор падает на 3 %** (в лекциях, по старому ГОСТ, — на 2 %). Сами пузыри появляются раньше.
 - **Допускаемый Δh_доп = (1,1…1,4)·Δh_кр** — критический с запасом «на всякий случай». Его наносят на характеристику насоса.
 - **Как найти — опытом, по кавитационной характеристике** (график ниже). Стенд закрытый: n и Q держим постоянными (Q — задвижкой), а **вакуум-насосом ступенчато понижаем давление в баке**. Пока запас большой, напор не меняется, на графике полка. Дальше он падает и резко обрывается — это срыв. Проводим линию на 3 % ниже полки, точка пересечения — Δh_кр. Умножаем на коэффициент запаса и получаем Δh_доп.
 
